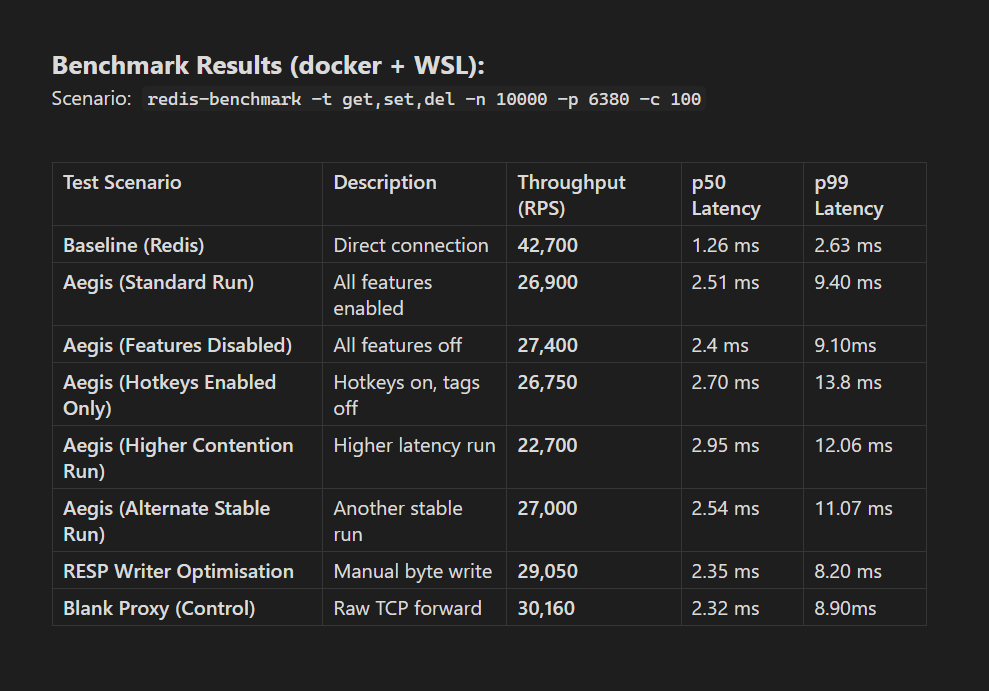
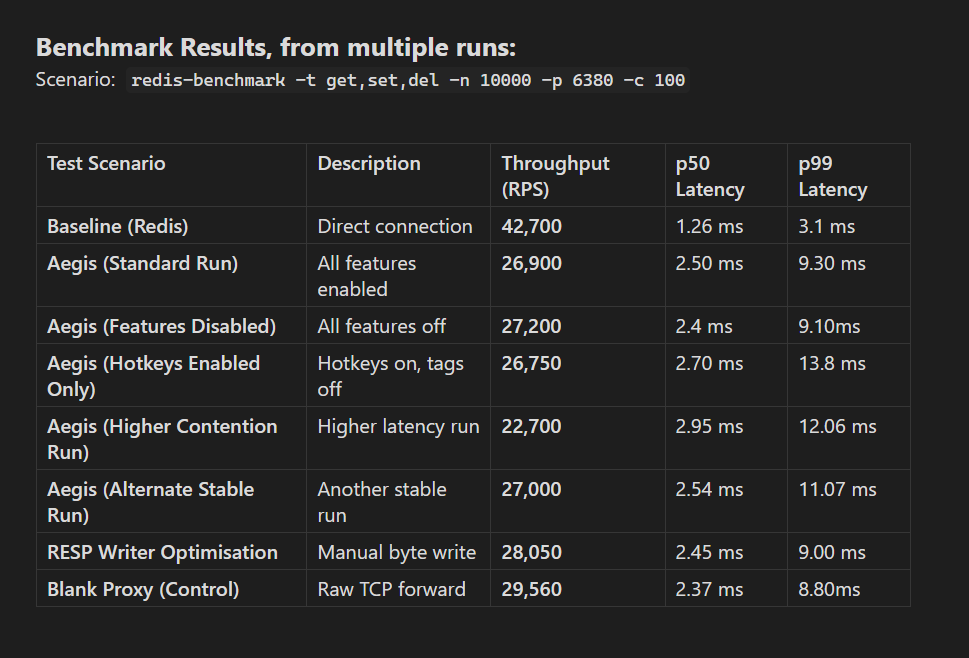
update load test

diff --git a/Load-test-report.md b/Load-test-report.md
@@ -105,19 +105,19 @@ Aegis sustains ~65–75% of native Redis throughput in Docker, with overhead dom
 
 ---
 
-### Benchmark Results (docker + WSL):
+### Benchmark Results, from multiple runs:
 Scenario:  `redis-benchmark -t get,set,del -n 10000 -p 6380 -c 100`
 
 | Test Scenario                     | Description          | Throughput (RPS) | p50 Latency | p99 Latency |
 | --------------------------------- | -------------------- | ---------------- | ----------- | ----------- |
-| **Baseline (Redis)**              | Direct connection    | **42,700**       | 1.26 ms     | 2.63 ms     |
-| **Aegis (Standard Run)**          | All features enabled | **26,900**       | 2.51 ms     | 9.40 ms     |
-| **Aegis (Features Disabled)**     | All features off     | **27,400**       | 2.4 ms      | 9.10ms      |
+| **Baseline (Redis)**              | Direct connection    | **42,700**       | 1.26 ms     | 3.1 ms      |
+| **Aegis (Standard Run)**          | All features enabled | **26,900**       | 2.50 ms     | 9.30 ms     |
+| **Aegis (Features Disabled)**     | All features off     | **27,200**       | 2.4 ms      | 9.10ms      |
 | **Aegis (Hotkeys Enabled Only)**  | Hotkeys on, tags off | **26,750**       | 2.70 ms     | 13.8 ms     |
 | **Aegis (Higher Contention Run)** | Higher latency run   | **22,700**       | 2.95 ms     | 12.06 ms    |
 | **Aegis (Alternate Stable Run)**  | Another stable run   | **27,000**       | 2.54 ms     | 11.07 ms    |
-| **RESP Writer Optimisation**      | Manual byte write    | **29,050**       | 2.35 ms     | 8.20 ms     |
-| **Blank Proxy (Control)**         | Raw TCP forward      | **30,160**       | 2.32 ms     | 8.90ms      |
+| **RESP Writer Optimisation**      | Manual byte write    | **28,050**       | 2.45 ms     | 9.00 ms     |
+| **Blank Proxy (Control)**         | Raw TCP forward      | **29,560**       | 2.37 ms     | 8.80ms      |
 
 
 ---
